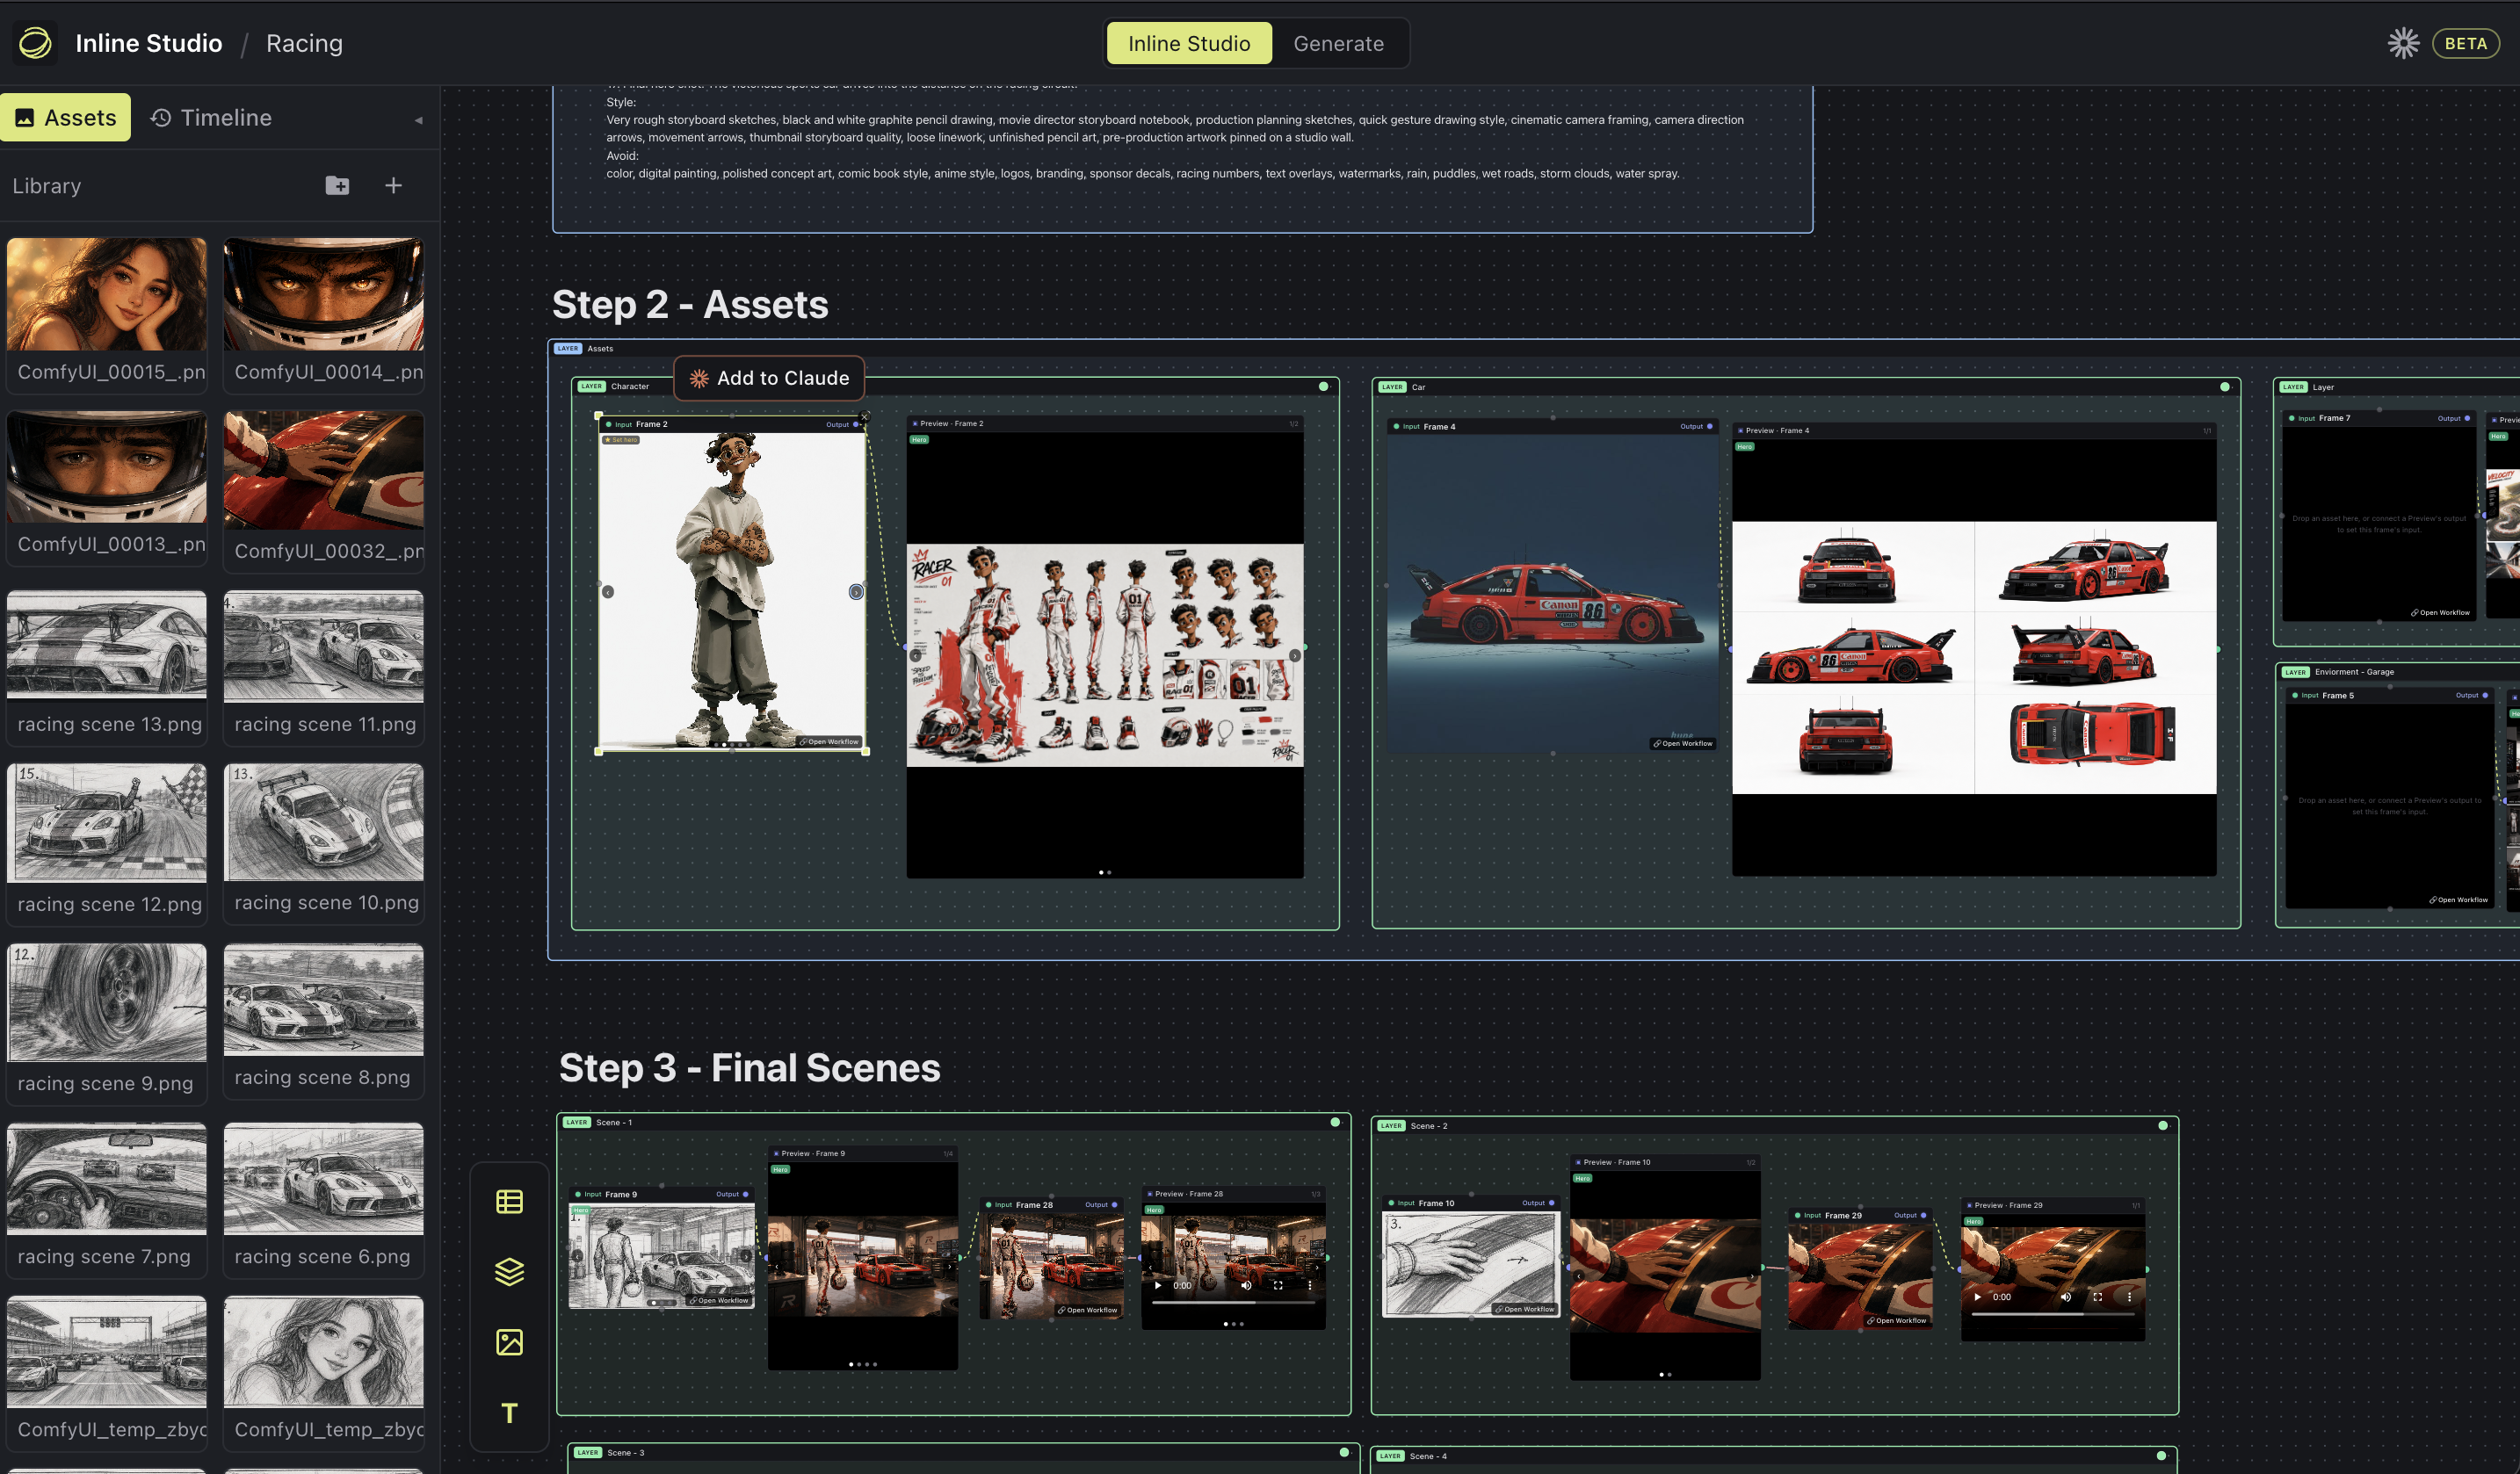
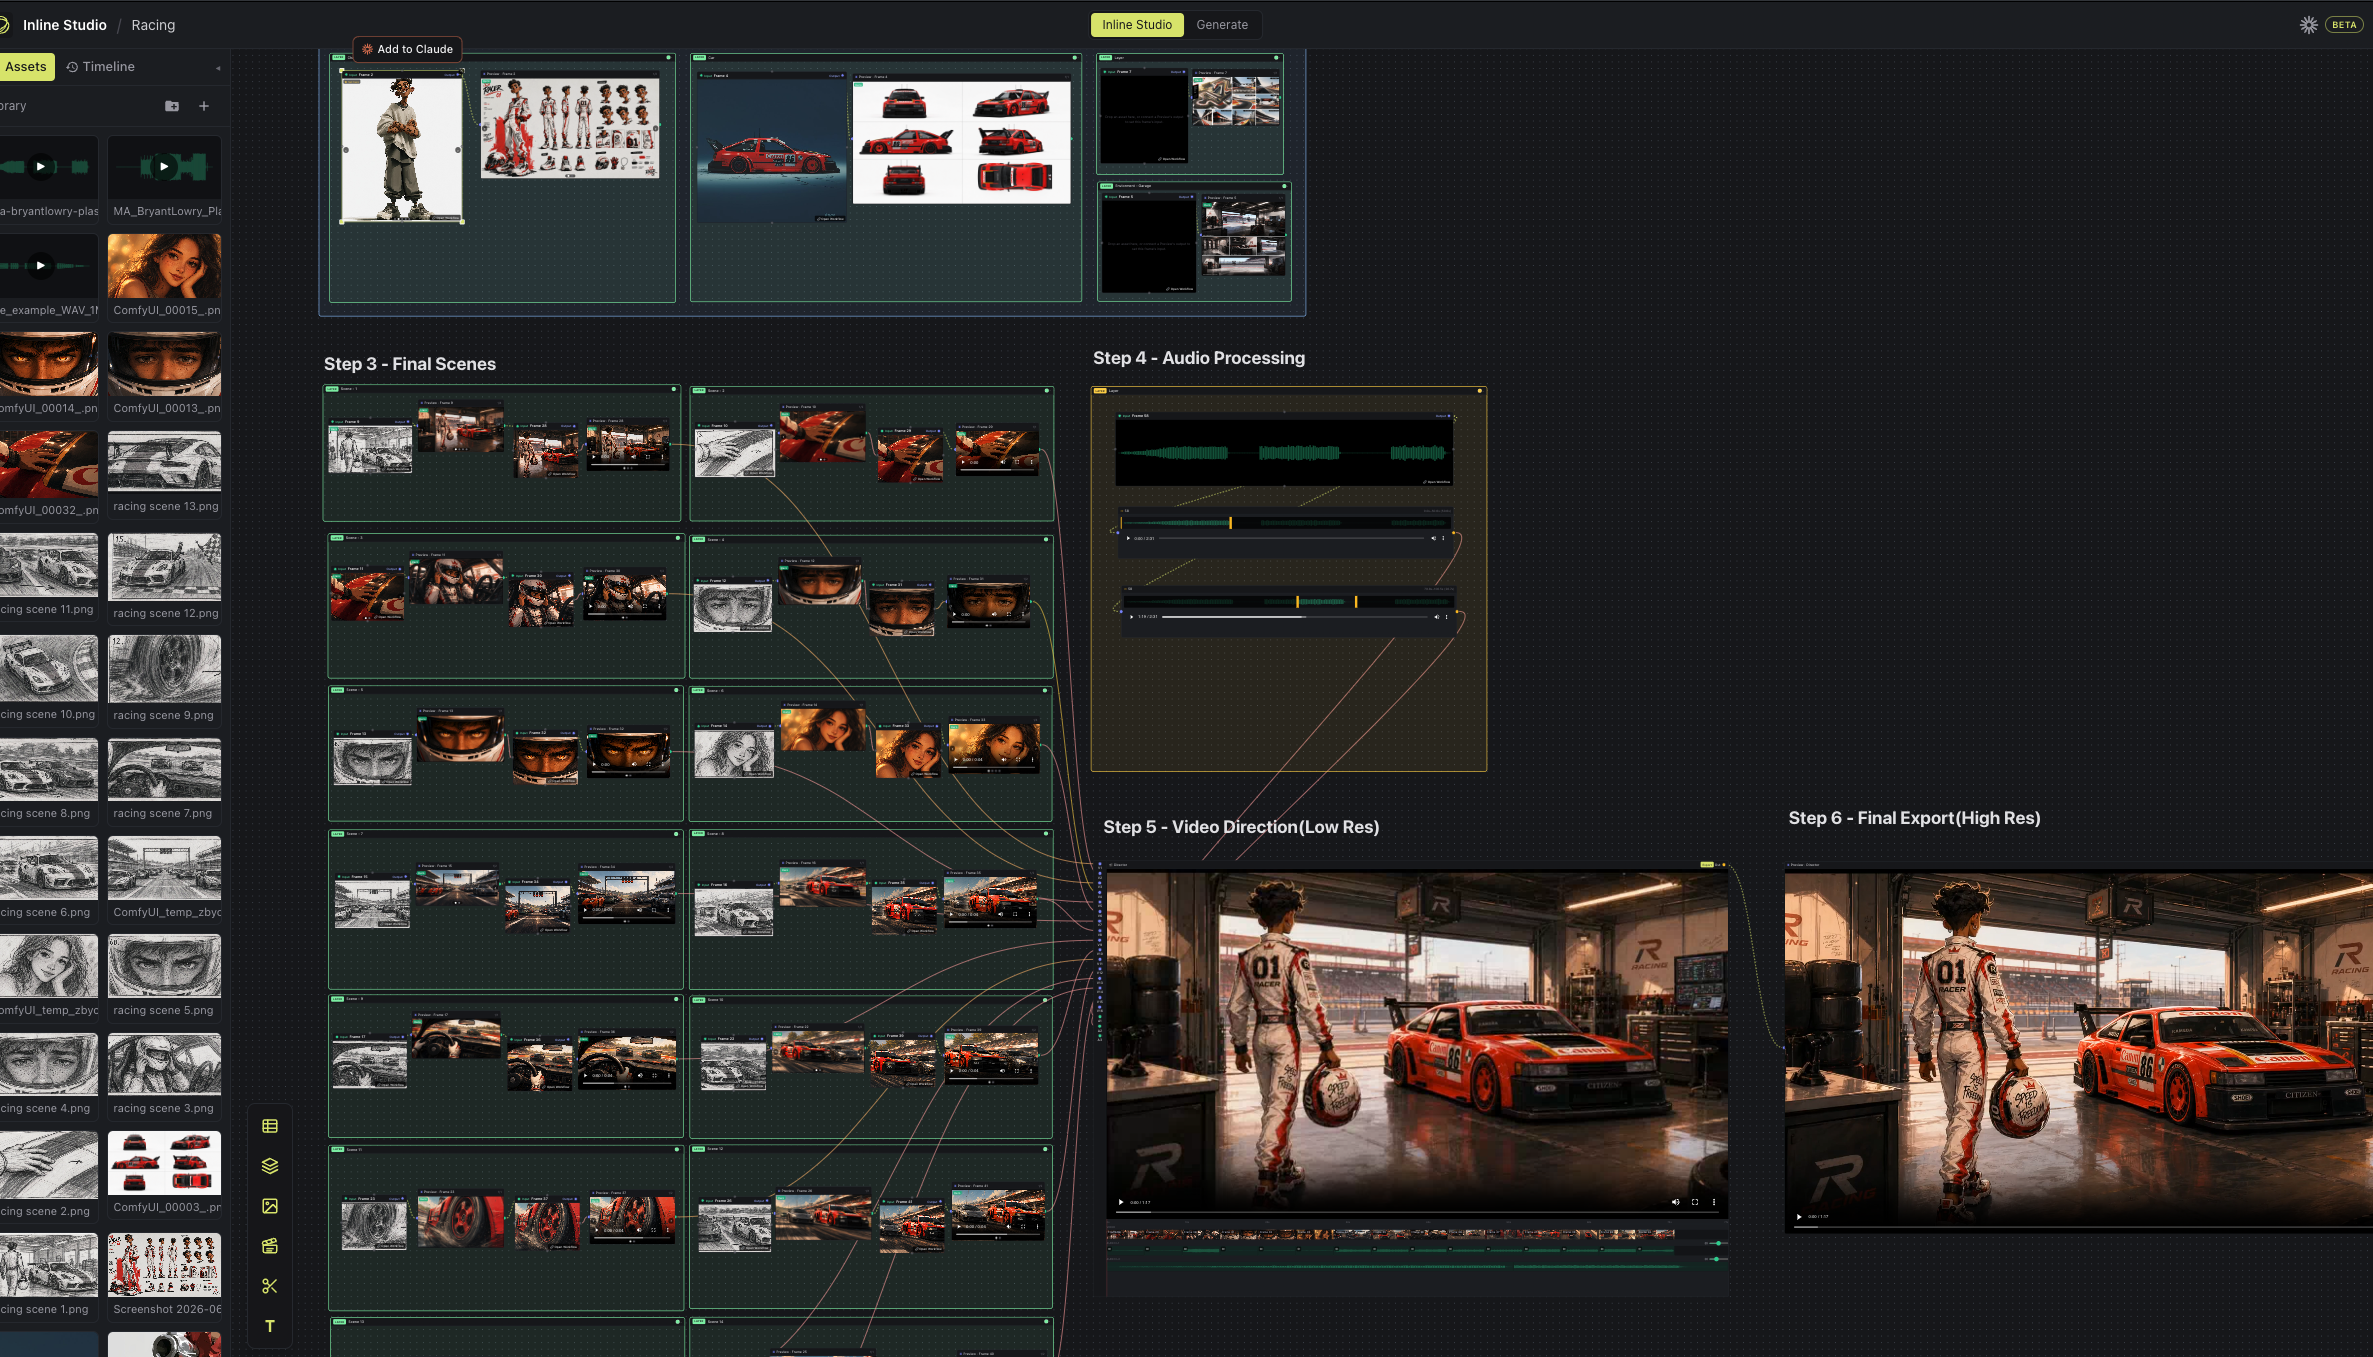
updated readme

diff --git a/README.md b/README.md
@@ -9,7 +9,20 @@ ComfyUI is the most capable generative engine going: image, video, audio, LLM, e
 
 ![Inline Studio canvas](screenshots/screenshot-dashboard-2.png)
 
-> **Status: active development.** The canvas, the project model, the ComfyUI bridge, and the Claude assistant are working today. Timeline editing, a preview player, and video export are next.
+## What's new
+
+**Video Director node:** a timeline-in-a-node that combines your rendered frames into a single cut.
+Wire unlimited frame/preview outputs into it to build the video track, layer audio on top (L1 is the
+videos' own audio, L2 is your own music/VO) with per-input and per-layer volume, scrub the in-node
+preview, and export the combined high-res video.
+
+**Edit Video/Audio node:** a simple trim node. Drop in a video or audio clip, drag the in/out
+handles over its filmstrip/waveform, and pass just the trimmed segment downstream to the director or
+preview node.
+
+|               Edit Video/Audio node                |               Video Director node                |
+| :------------------------------------------------: | :----------------------------------------------: |
+| ![Edit Video/Audio node](screenshots/1.0.34.1.png) | ![Video Director node](screenshots/1.0.34.2.png) |
 
 ---
 